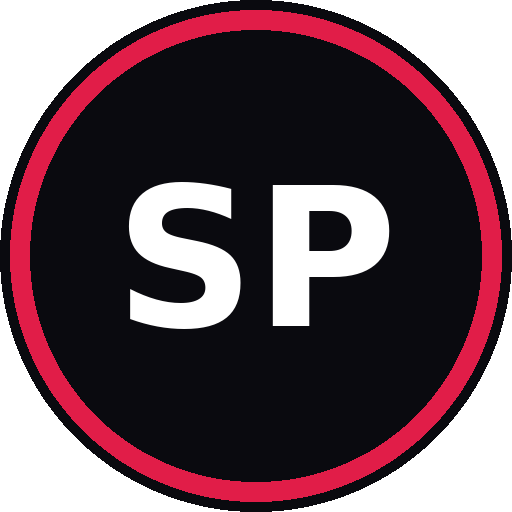
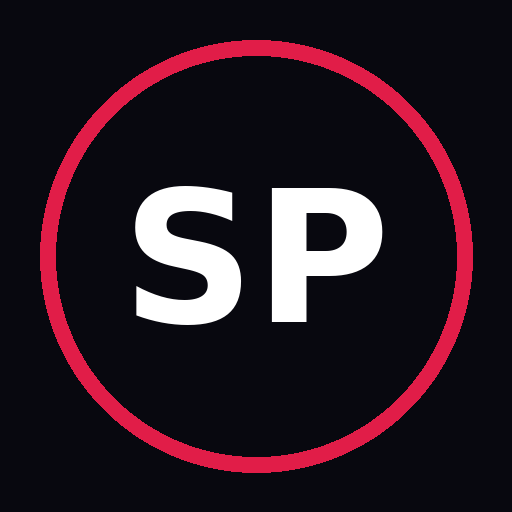
Updates

diff --git a/index.html b/index.html
@@ -16,7 +16,7 @@
   <meta name="apple-mobile-web-app-capable" content="yes" />
   <meta name="apple-mobile-web-app-status-bar-style" content="black-translucent" />
   <meta name="apple-mobile-web-app-title" content="SPLINT.AI" />
-  <link rel="apple-touch-icon" href="/icons/icon-192.png" />
+  <link rel="apple-touch-icon" href="/icons/apple-touch-icon.png" />
 
   <!-- Open Graph -->
   <meta property="og:title" content="SPLINT.AI — AI решатель задач" />